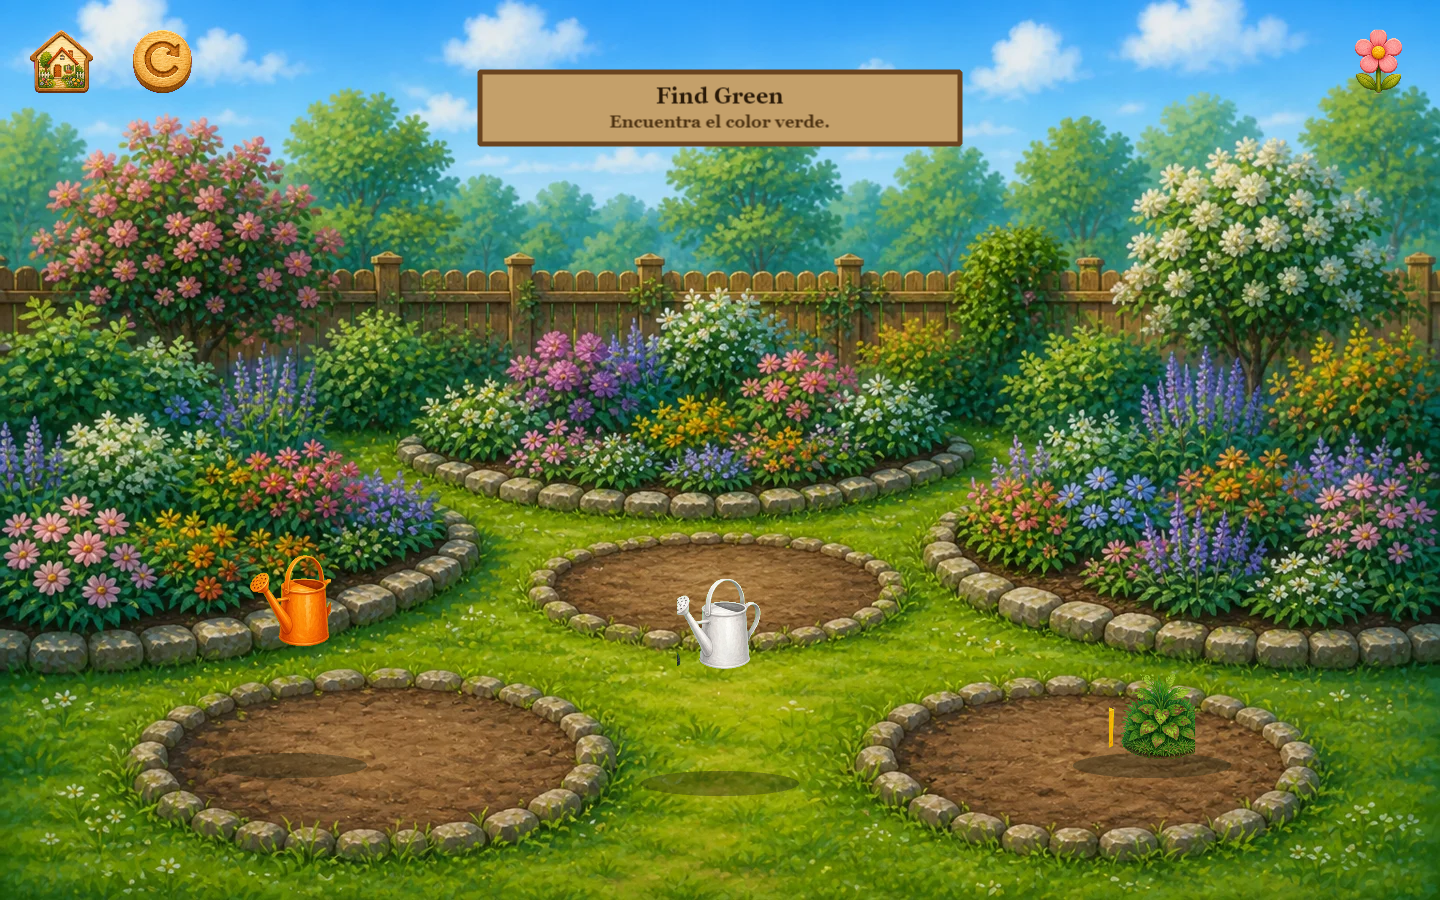
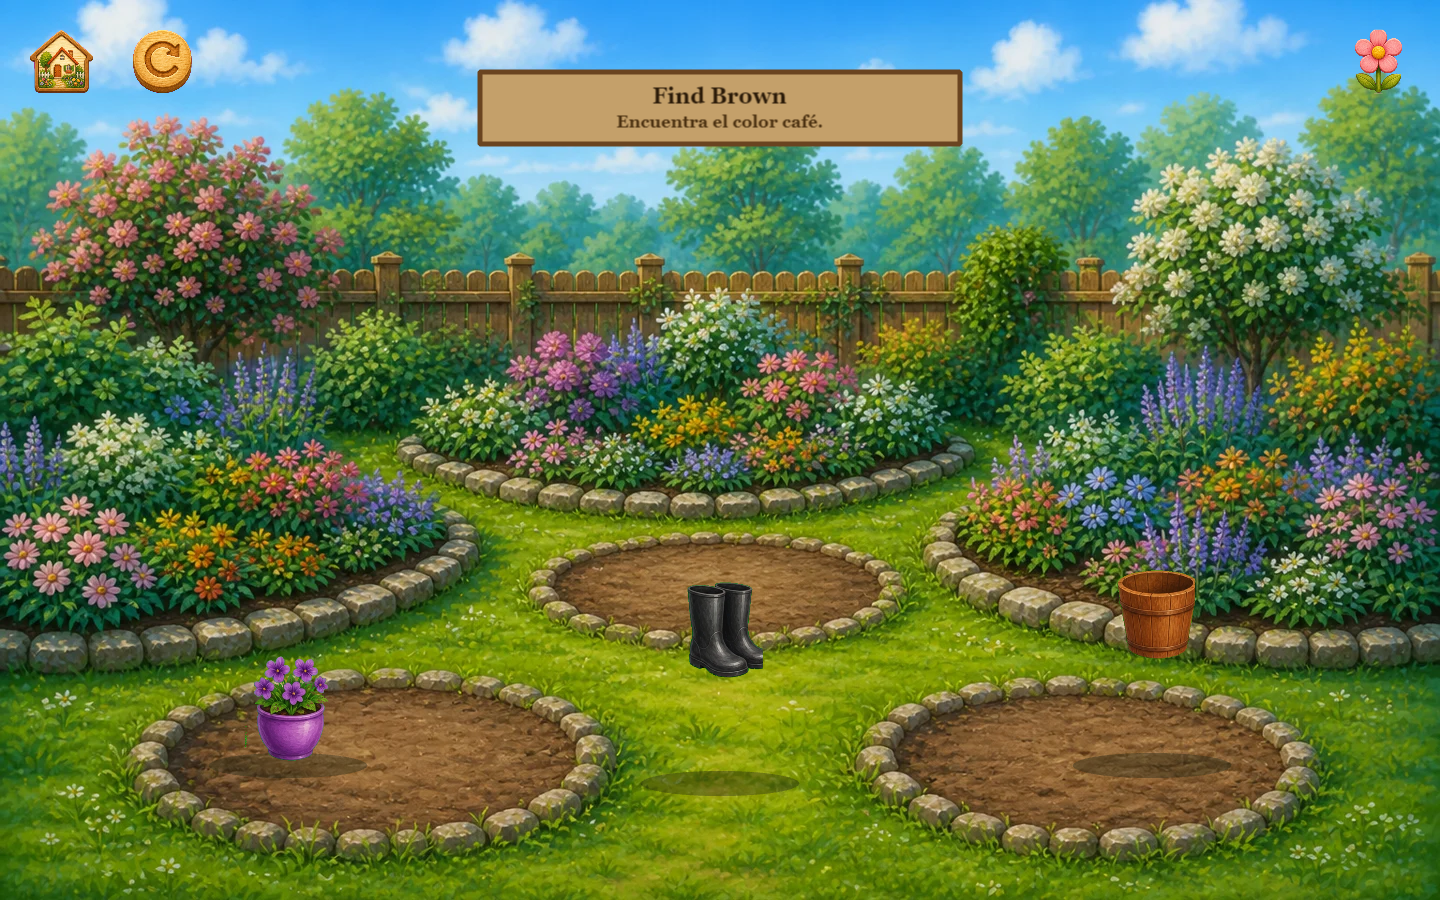
Center Color Garden props in mural soil beds at toddler scale.

diff --git a/app/phaser-poc/game/scenes/ColorGardenScene.ts b/app/phaser-poc/game/scenes/ColorGardenScene.ts
@@ -84,7 +84,10 @@ export class ColorGardenScene extends ChoiceScene {
     return Math.min(spec.max, Math.max(spec.min, Math.round(fromFrac)));
   }
 
-  /** Equal visual weight: same display height for every prop; large soft soil shadow. */
+  /**
+   * Center each prop in a soil bed (origin 0.5/0.5) so the whole silhouette
+   * sits in dirt — not feet-anchored into the bed below / grass above.
+   */
   protected placeChoices() {
     const slots = this.choiceSlots();
     const targetH = this.choiceTargetHeightPx() ?? this.worldH * 0.22;
@@ -95,16 +98,16 @@ export class ColorGardenScene extends ChoiceScene {
       const p = { x: slot.x * this.worldW, y: slot.y * this.worldH };
 
       this.add
-        .ellipse(p.x, p.y - 6, targetH * 0.85, targetH * 0.22, 0x1a2010, 0.4)
+        .ellipse(p.x, p.y + targetH * 0.42, targetH * 0.78, targetH * 0.2, 0x1a2010, 0.42)
         .setDepth(4);
 
-      const img = this.add.image(p.x, p.y, item.texture).setOrigin(0.5, 1).setDepth(5);
+      const img = this.add.image(p.x, p.y, item.texture).setOrigin(0.5, 0.5).setDepth(5);
       const aspect = img.width / Math.max(1, img.height);
       img.setDisplaySize(targetH * aspect, targetH);
 
-      const hit = Math.max(touch, img.displayWidth * 1.08, img.displayHeight * 1.08);
+      const hit = Math.max(touch, img.displayWidth * 1.1, img.displayHeight * 1.1);
       img.setInteractive(
-        new Phaser.Geom.Rectangle(-hit / 2, -hit, hit, hit),
+        new Phaser.Geom.Rectangle(-hit / 2, -hit / 2, hit, hit),
         Phaser.Geom.Rectangle.Contains,
       );
       img.setData("choiceId", item.id);
@@ -114,7 +117,7 @@ export class ColorGardenScene extends ChoiceScene {
 
       if (this.showTouchDebug) {
         this.add
-          .rectangle(p.x, p.y - hit / 2, hit, hit, 0x00ff88, 0.22)
+          .rectangle(p.x, p.y, hit, hit, 0x00ff88, 0.22)
           .setStrokeStyle(3, 0x00cc66, 0.9)
           .setDepth(40);
       }
@@ -158,7 +161,7 @@ export class ColorGardenScene extends ChoiceScene {
 
   protected playCorrect(item: ChoiceItem, img: Phaser.GameObjects.Image) {
     const glow = this.add
-      .circle(img.x, img.y - img.displayHeight * 0.45, img.displayWidth * 0.55, 0xfff6a8, 0.35)
+      .circle(img.x, img.y, img.displayWidth * 0.6, 0xfff6a8, 0.35)
       .setDepth(6);
     this.tweens.add({
       targets: glow,
@@ -179,10 +182,10 @@ export class ColorGardenScene extends ChoiceScene {
   private bloomBed(item: ChoiceItem, img: Phaser.GameObjects.Image) {
     const color = BLOOM_HEX[item.id] ?? 0xfff2a8;
     const bedX = img.x;
-    const bedY = img.y - 8;
+    const bedY = img.y + img.displayHeight * 0.15;
     for (let i = 0; i < 10; i++) {
       const ang = (i / 10) * Math.PI * 2 + Math.random() * 0.3;
-      const dist = 18 + Math.random() * (img.displayWidth * 0.35);
+      const dist = 18 + Math.random() * (img.displayWidth * 0.4);
       const petal = this.add
         .circle(bedX, bedY, 7 + Math.random() * 6, color, 0.95)
         .setDepth(7)
@@ -203,9 +206,8 @@ export class ColorGardenScene extends ChoiceScene {
         onComplete: () => petal.destroy(),
       });
     }
-    // Soft matching flower mound rising in the bed
     const mound = this.add
-      .ellipse(bedX, bedY - 6, img.displayWidth * 0.85, img.displayHeight * 0.22, color, 0.55)
+      .ellipse(bedX, bedY, img.displayWidth * 0.9, img.displayHeight * 0.28, color, 0.55)
       .setDepth(3)
       .setScale(0.3);
     this.tweens.add({
@@ -227,8 +229,9 @@ export class ColorGardenScene extends ChoiceScene {
   private celebrateFriend(img: Phaser.GameObjects.Image) {
     const key = FRIEND_KEYS.find((k) => this.textures.exists(k)) ?? FRIEND_KEYS[0];
     if (!this.textures.exists(key)) return;
+    const feetY = img.y + img.displayHeight * 0.5;
     const friend = this.add
-      .image(img.x + img.displayWidth * 0.55, img.y, key)
+      .image(img.x + img.displayWidth * 0.55, feetY, key)
       .setOrigin(0.5, 1)
       .setDepth(12)
       .setAlpha(0);
@@ -237,13 +240,13 @@ export class ColorGardenScene extends ChoiceScene {
     this.tweens.add({
       targets: friend,
       alpha: 1,
-      y: img.y - 10,
+      y: feetY - 10,
       duration: 280,
       ease: "Back.easeOut",
     });
     this.tweens.add({
       targets: friend,
-      y: img.y - this.worldH * 0.05,
+      y: feetY - this.worldH * 0.05,
       duration: 280,
       yoyo: true,
       repeat: 2,
@@ -264,7 +267,7 @@ export class ColorGardenScene extends ChoiceScene {
       const s = this.add
         .circle(
           img.x + (Math.random() - 0.5) * img.displayWidth * 1.2,
-          img.y - img.displayHeight * (0.2 + Math.random() * 0.7),
+          img.y + (Math.random() - 0.5) * img.displayHeight,
           3 + Math.random() * 4,
           0xfff2a8,
           0.95,

diff --git a/app/phaser-poc/game/layouts.ts b/app/phaser-poc/game/layouts.ts
@@ -41,20 +41,20 @@ export const CHOICE_SLOTS: Record<PocAspect, [Norm, Norm, Norm]> = {
 };
 
 /**
- * Color Garden — feet anchors in the three empty soil beds.
- * Landscape mural: front-left, mid-center, front-right (triangle).
- * Portrait mural: left, right, bottom-center (inverted triangle).
+ * Color Garden — visual centers of the three empty soil beds (not feet).
+ * Landscape: left / mid-back / right triangle on 1440×900 mural.
+ * Portrait: left / bottom-center / right inverted triangle on 390×844 mural.
  */
 export const COLOR_BED_SLOTS: Record<PocAspect, [Norm, Norm, Norm]> = {
   landscape: [
-    { x: 0.22, y: 0.9, scale: 1 },
-    { x: 0.5, y: 0.73, scale: 1 },
-    { x: 0.78, y: 0.9, scale: 1 },
+    { x: 0.22, y: 0.82, scale: 1 },
+    { x: 0.5, y: 0.65, scale: 1 },
+    { x: 0.76, y: 0.82, scale: 1 },
   ],
   portrait: [
-    { x: 0.26, y: 0.6, scale: 1 },
-    { x: 0.74, y: 0.6, scale: 1 },
-    { x: 0.5, y: 0.86, scale: 1 },
+    { x: 0.24, y: 0.78, scale: 1 },
+    { x: 0.52, y: 0.9, scale: 1 },
+    { x: 0.82, y: 0.72, scale: 1 },
   ],
 };
 
